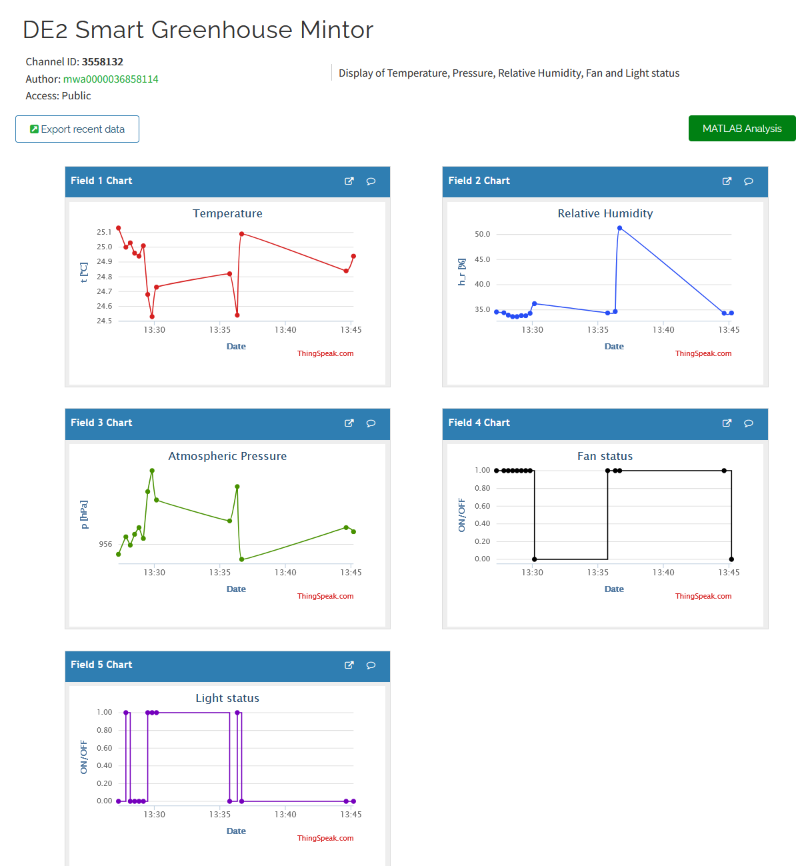
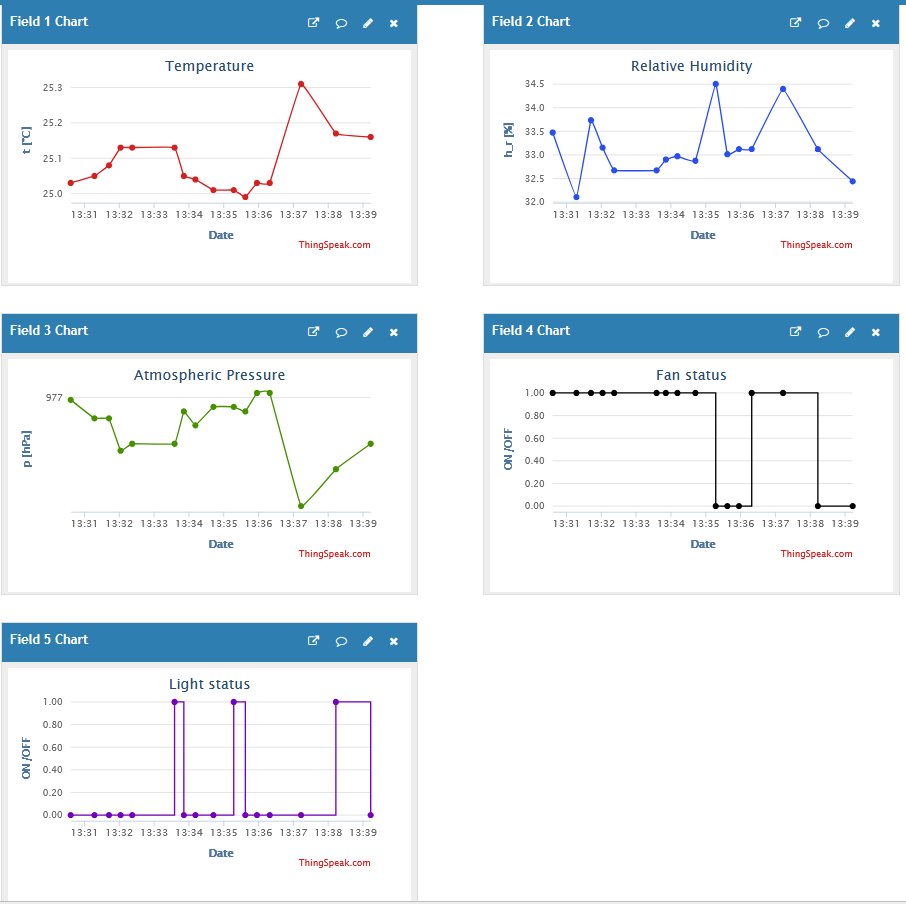
readme, added test result

diff --git a/src/fullpower.py b/src/fullpower.py
@@ -12,7 +12,7 @@ History
 19.11.2026 Testing implementation - button was not debounced properly (fixed)
 19.11.2026 Testing impl. - everything OK
 26.11.2026 Tested machine.idle() instead of time.sleep_ms(10) for lower power consumption
-26.11.2026 Moved to main_fullpower.py; main.py is now a dispatcher (LOW_POWER_MODE flag)
+26.11.2026 Moved to fullpower.py; main.py is now a dispatcher (LOW_POWER_MODE flag)
 
 """
 import time

diff --git a/README.md b/README.md
@@ -226,7 +226,7 @@ DE2-project
 ### 7. Full System Integration (`main.py`)
 - **First integration test:** Button was not debounced enough (occasionally two changes were detected per click) - changed button debouncing to 200 ms
 - **Second integration test:** Everything working properly, putting Pico into sleep/idle state was suggested for lower power consumption
-- **Third integration test:** Low power consumption mode was added (`lowpower.py`), former `main.py` was renamed to `fullpower.py`, `main.py` only decides which mode should be used based on `LOW_POWER_MODE` variable in `settings.py`, everything working properly
+- **Third integration test:** Low power consumption mode was added (`lowpower.py`), former `main.py` was renamed to `fullpower.py`, `main.py` only decides which mode should be used based on `LOW_POWER_MODE` variable in `settings.py`, everything working properly, [TS result](Images/ThingSpeak.png)
 
 ---
 
